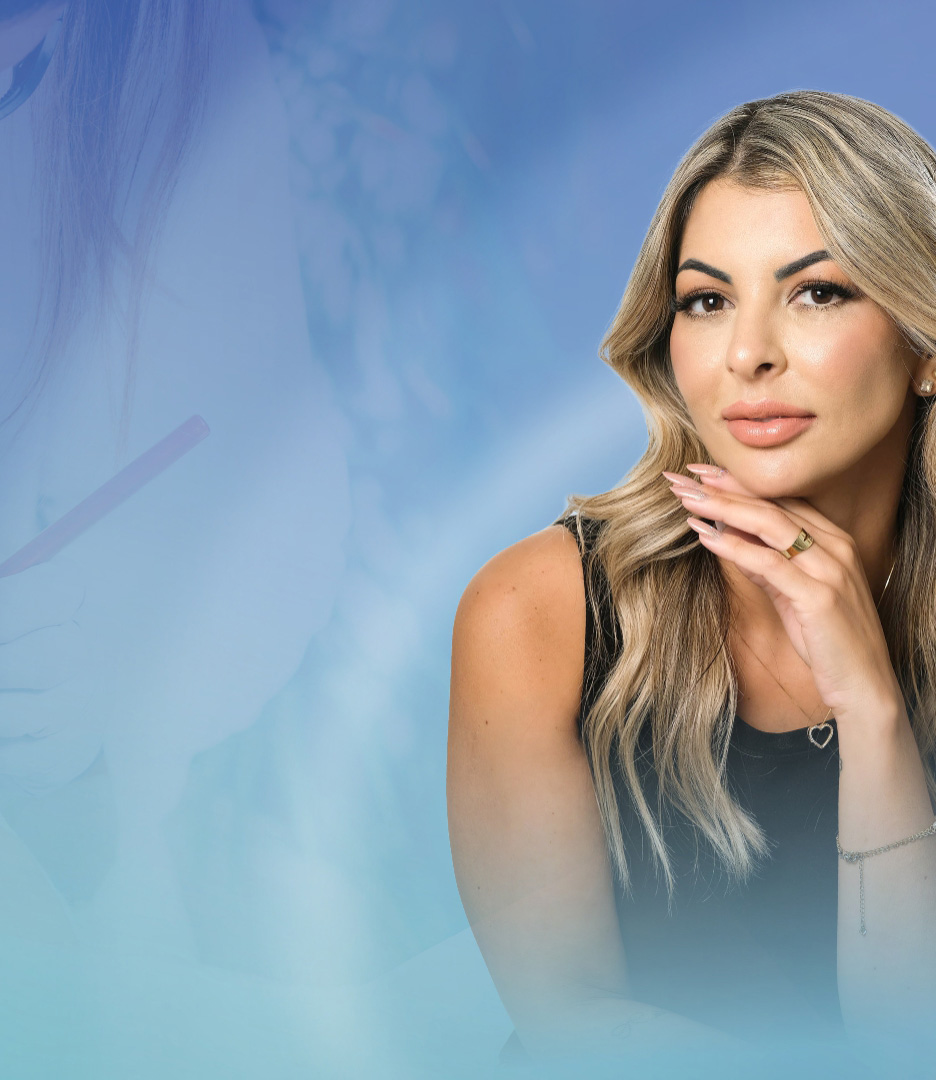
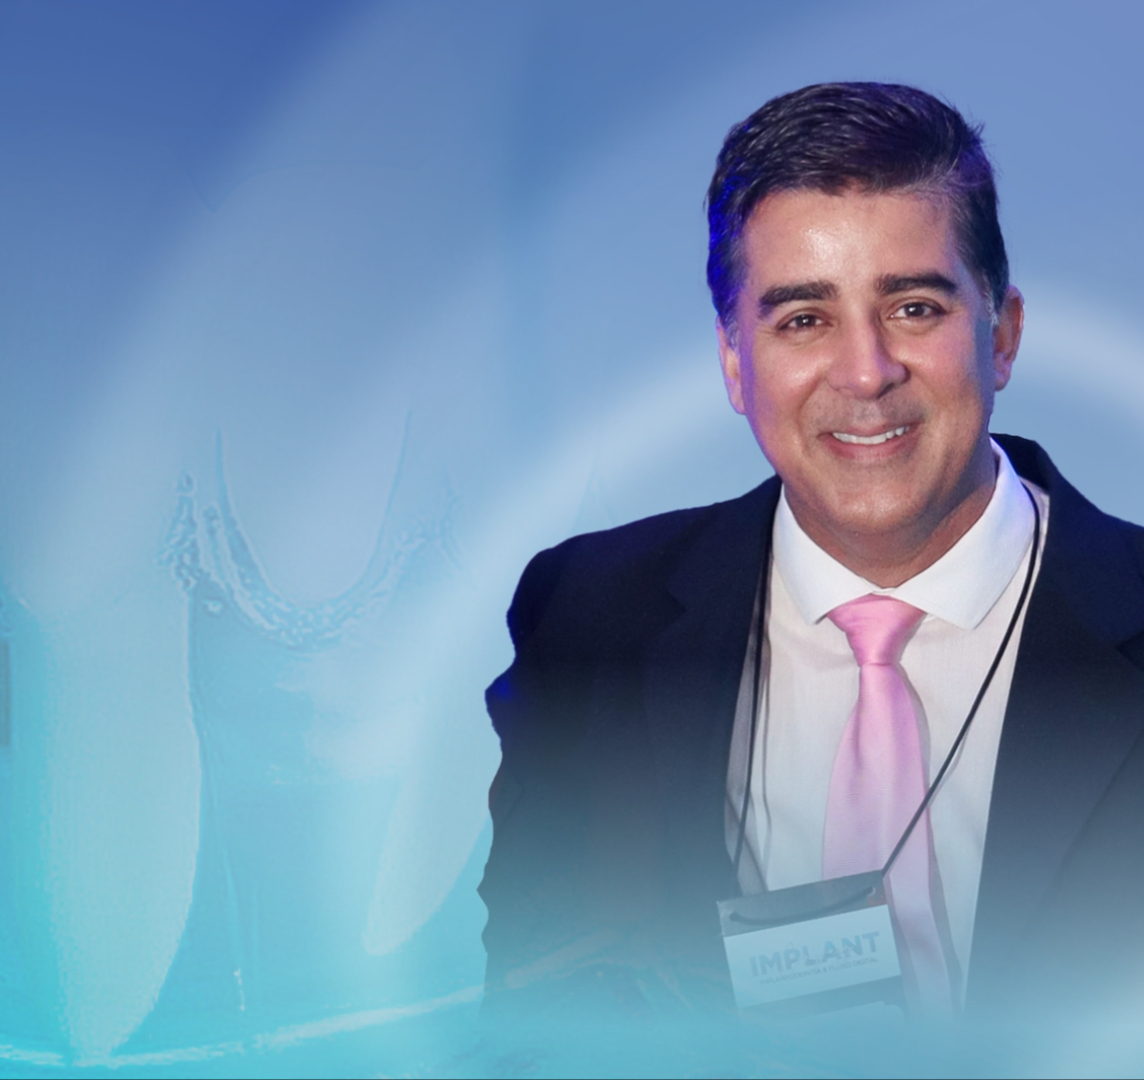
end1

diff --git a/src/app/sections/Header.tsx b/src/app/sections/Header.tsx
@@ -1,21 +1,43 @@
-import { headerContent } from "../constants";
+import { headerContent } from "../constants/index";
 import BlueButton from "../components/BlueButton";
 
 const Header = () => {
-  const { title, description, ctaText, ctaLink } = headerContent;
+  const { title, description, ctaText, ctaLink, altText } = headerContent;
 
   return (
-    <header className="relative w-full h-[65vh] lg:h-screen bg-[url(/images/bannerPrincipalMobile.jpg)] md:bg-[url(/images/bannerpincipal.jpg)] bg-cover bg-center md:bg-left bg-no-repeat text-cta-third font-light overflow-hidden ">
-      <div className="w-full lg:max-w-[760px] 2xl:max-w-screen-xl h-full mx-auto px-4 sm:px-10 flex items-center justify-between -mt-9.5 sm:mt-0">
+    <header
+      className="
+        relative w-full h-[65vh] lg:h-screen
+        bg-[url('/images/bannerPrincipalMobile.jpg')]
+        md:bg-[url('/images/bannerPrincipal.jpg')]
+        bg-cover bg-center md:bg-left bg-no-repeat
+        text-cta-third font-light overflow-hidden
+      "
+      aria-label={altText}>
+      <div
+        className="
+          w-full lg:max-w-[760px] 2xl:max-w-screen-xl
+          h-full mx-auto px-4 sm:px-10
+          flex items-center justify-between
+          -mt-18.5 sm:mt-0
+        ">
         <div className="max-w-xs lg:max-w-2xl 2xl:max-w-3xl">
           <h1
-            className="text-[2rem] lg:text-7xl 2xl:text-8xl font-bold tracking-tight 2xl:tracking-[-0.02em] leading-tight 2xl:leading-[1.05] mb-6 drop-shadow-md"
+            className="
+    text-3xl sm:text-4xl md:text-5xl lg:text-7xl 2xl:text-8xl
+    font-bold tracking-tight leading-snug sm:leading-normal lg:leading-[1.05] mb-6 drop-shadow-md
+  "
             dangerouslySetInnerHTML={{ __html: title }}
           />
+
           <p
-            className="text-lg lg:text-2xl 2xl:text-3xl leading-relaxed 2xl:leading-[1.7] font-medium mb-10"
+            className="
+    text-base sm:text-lg md:text-xl lg:text-2xl 2xl:text-3xl
+    leading-relaxed sm:leading-relaxed md:leading-relaxed lg:leading-[1.7] font-medium mb-10
+  "
             dangerouslySetInnerHTML={{ __html: description }}
           />
+
           <BlueButton link={ctaLink} text={ctaText} />
         </div>
       </div>

diff --git a/src/app/sections/BackStageSection.tsx b/src/app/sections/BackStageSection.tsx
@@ -1,7 +1,7 @@
 "use client";
 
 import { Swiper, SwiperSlide } from "swiper/react";
-import { Navigation, Pagination, Autoplay } from "swiper/modules";
+import { Pagination, Autoplay } from "swiper/modules";
 import Image from "next/image";
 import Curve from "../components/Curve";
 
@@ -32,16 +32,12 @@ export default function BackstageSection() {
         </h2>
 
         <Swiper
-          modules={[Navigation, Pagination, Autoplay]}
+          modules={[Pagination, Autoplay]}
           spaceBetween={16}
           slidesPerView={1}
           loop={true}
           autoplay={{ delay: 3000, disableOnInteraction: false }}
           pagination={{ clickable: true }}
-          navigation={{
-            prevEl: ".swiper-prev",
-            nextEl: ".swiper-next",
-          }}
           className="pb-8">
           {images.map((src, idx) => (
             <SwiperSlide key={idx}>
@@ -57,13 +53,6 @@ export default function BackstageSection() {
             </SwiperSlide>
           ))}
         </Swiper>
-
-        <button className="swiper-prev absolute left-4 top-1/2 -translate-y-1/2 bg-white text-black hover:bg-gray-200 rounded-full p-3 shadow z-10">
-          ◀
-        </button>
-        <button className="swiper-next absolute right-4 top-1/2 -translate-y-1/2 bg-white text-black hover:bg-gray-200 rounded-full p-3 shadow z-10">
-          ▶
-        </button>
       </div>
     </section>
   );

diff --git a/src/app/constants/index.js b/src/app/constants/index.js
@@ -2,9 +2,9 @@ export const headerContent = {
   backgroundImage: "https://via.placeholder.com/1200x600", // substitua por uma foto impactante
   altText: "Faculdade CTA",
   title: `
-    <span class="block text-[2.1rem] font-extrabold">Especialização em</span>
-    <span class="block font-extrabold text-[2.4rem]">Implantodontia & Prótese Dentária</span>
-    <span class="block text-[1.3rem] font-semibold mt-1">Dupla Certificação</span>
+    <span class="block text-[1.7rem] font-extrabold">Especialização em</span>
+    <span class="block font-extrabold text-[1.8rem]">Implantodontia & Prótese Dentária</span>
+    <span class="block  font-semibold mt-1">Dupla Certificação</span>
   `,
   description: `
     Formação presencial, completa e prática,<br/>

diff --git a/src/app/sections/CourseDetails.tsx b/src/app/sections/CourseDetails.tsx
@@ -18,7 +18,7 @@ const CourseDetails: React.FC = () => {
       <Title title={courseDetails.sectionTitle} />
 
       <div className="w-full lg:max-w-2xl mx-auto bg-gray-50 p-6 rounded-lg shadow-md border-l-8 border-blue-500">
-        <p className="mb-4 text-gray-700">{courseDetails.description}</p>
+        {/* <p className="mb-4 text-gray-700">{courseDetails.description}</p> */}
 
         <ul className="flex flex-col space-y-2">
           {courseDetails.highlights.map(
